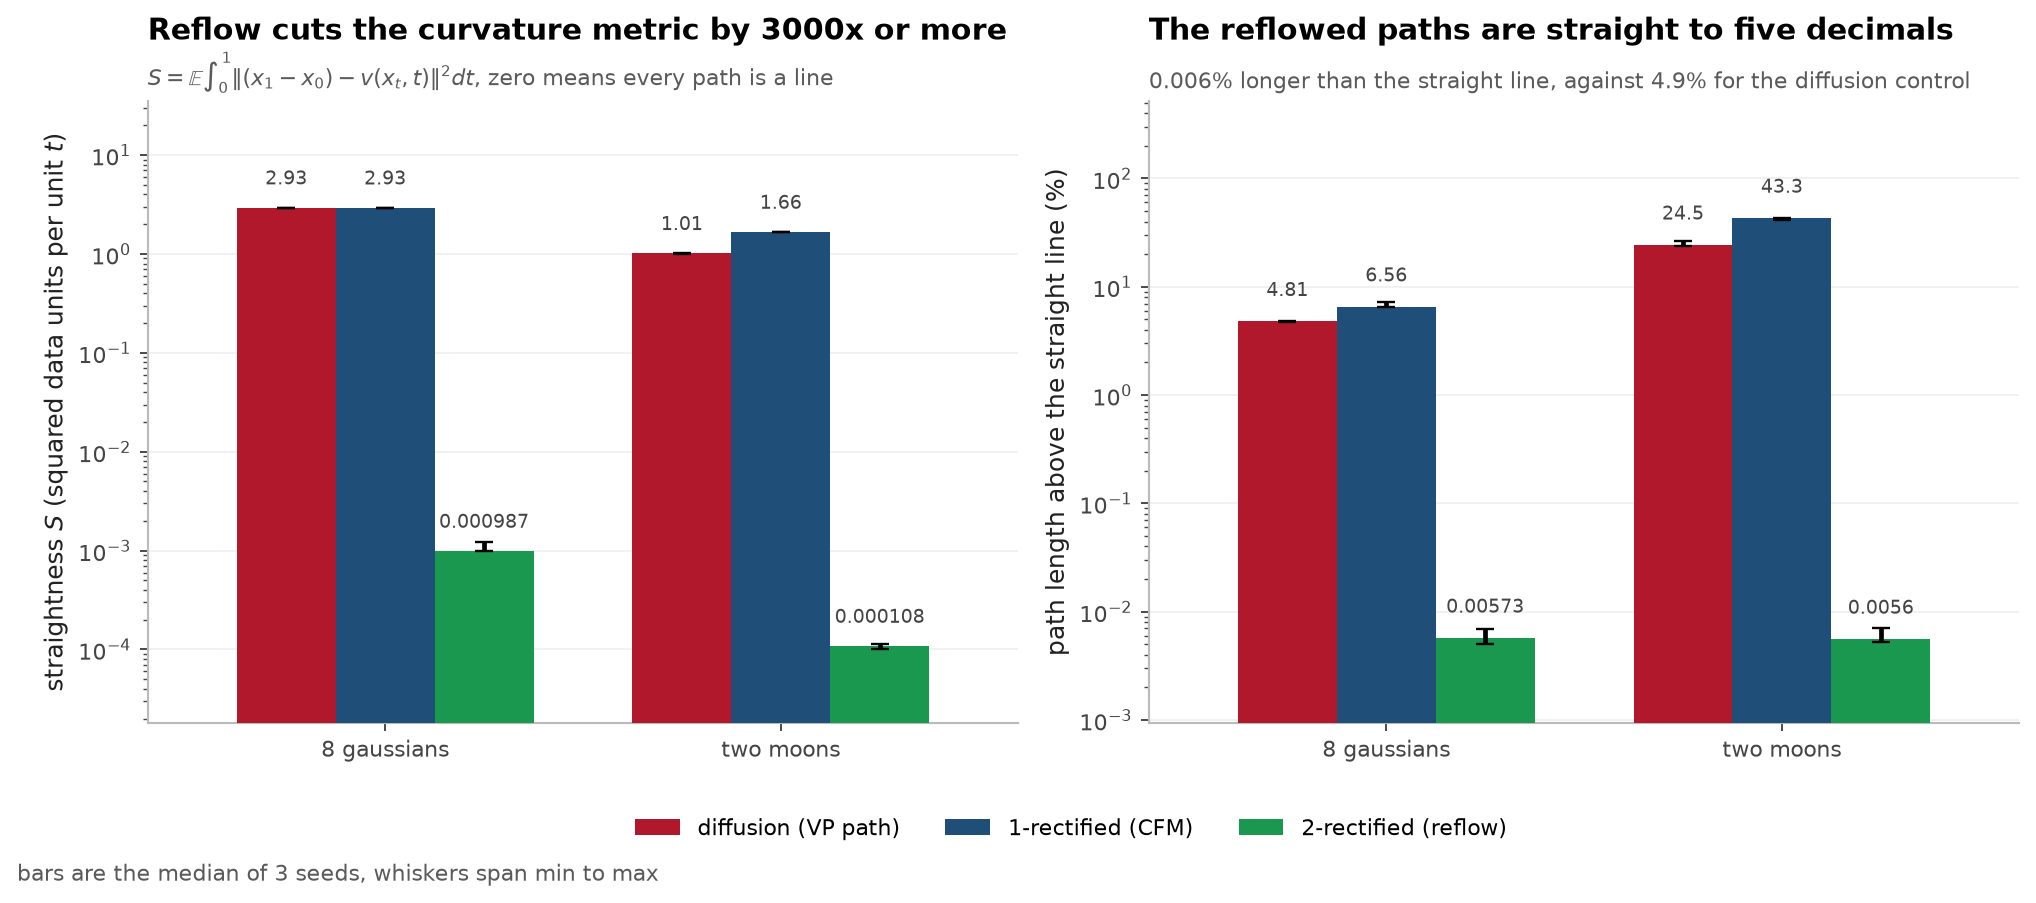
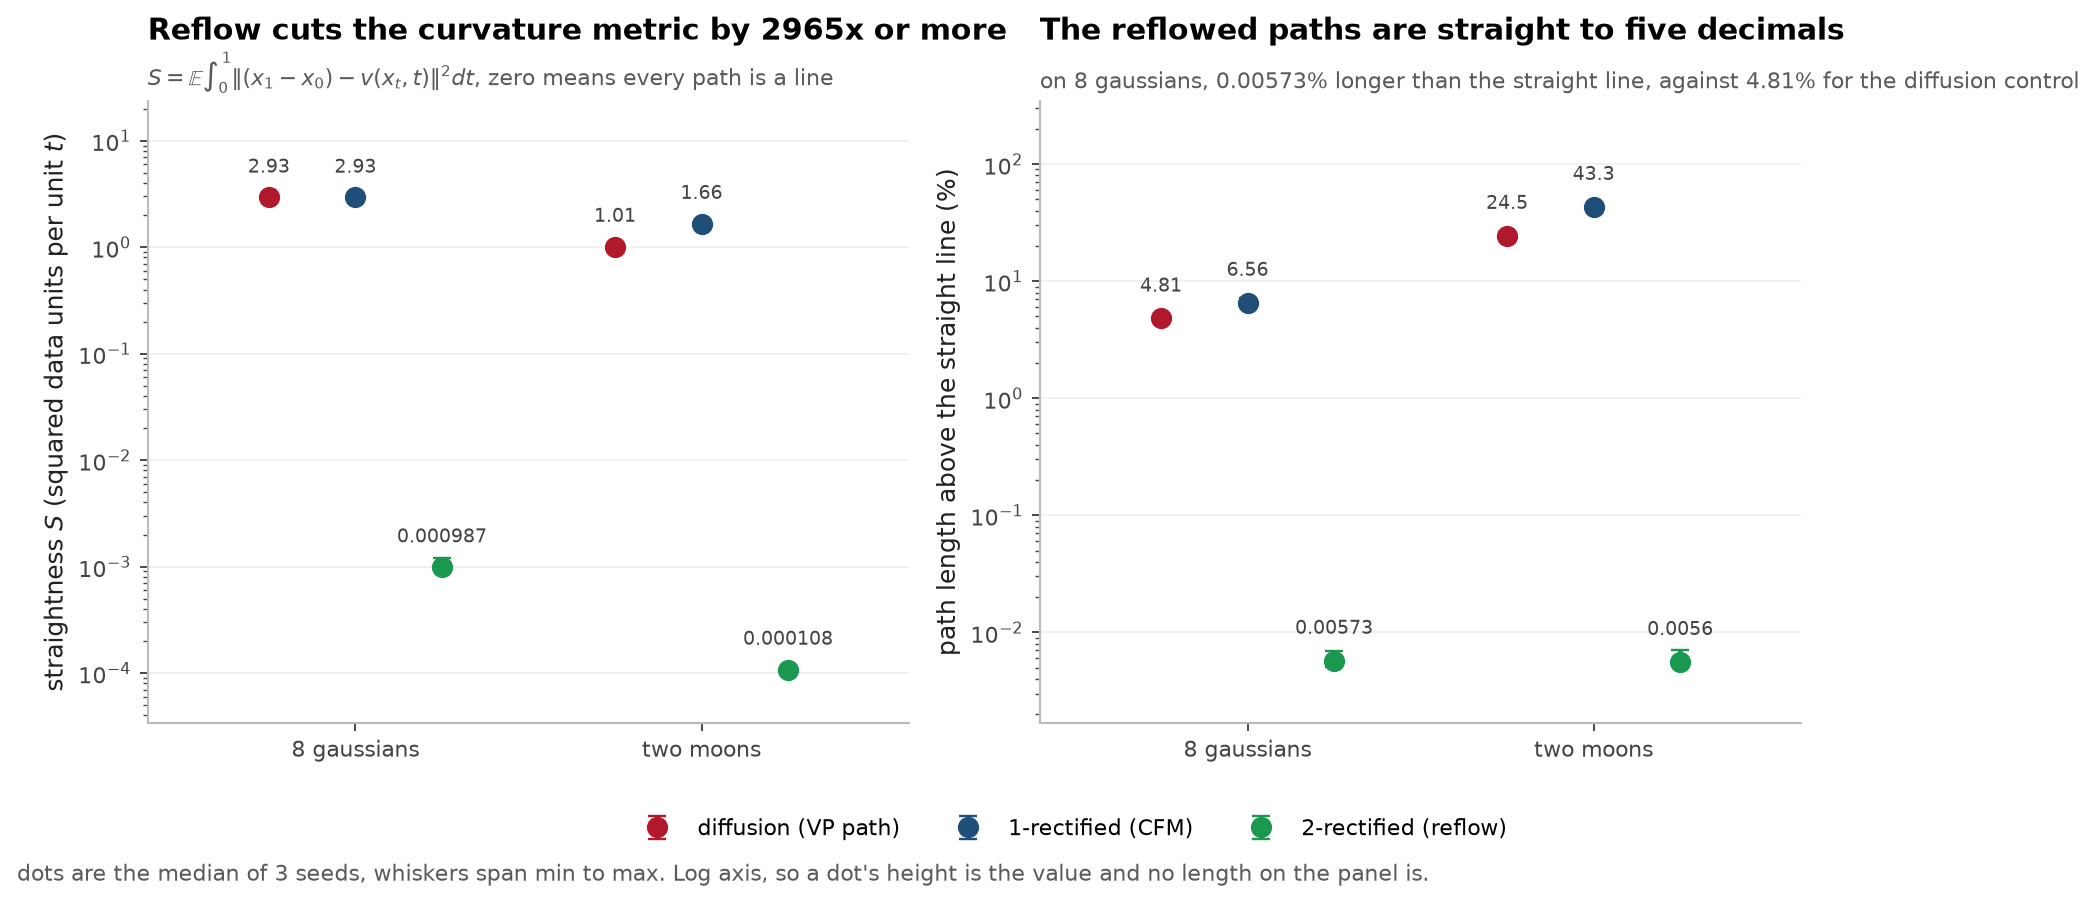
Read the straightness figure's numbers from the CSV, drop the log bars
The right panel subtitle had 0.006% and 4.9% typed into it. Those are seed 0
rounded, and the 4.9% disagreed with the 4.81 label on the bar directly under
it. The median over the 3 seeds is 4.81% and 0.00573%. Both percentages, and
the fold change in the left panel title, now come out of
results/straightness.csv at plot time. check_numbers.py only reads README and
notes prose, so a number typed into figure code was never going to be caught
there.

Both panels drew bars on a log axis. Bar length is then measured from whatever
the bottom of the axis happens to be, so the length means nothing, and in the
left panel the bars ran off the bottom with no zero anywhere. They are dots
with min to max whiskers now, on the same log axis. Position carries the value,
which is the part a log axis gets right, and the span of more than three orders
of magnitude is still visible.

Deleted results/trajectories-moons.png and results/velocity-field-moons.png. No
markdown in the repo linked either one, and the 8 gaussians versions already
make the same point, so that was 1.3 MB of dead weight. bench.figures builds
only the figures the markdown shows, so they do not come back.

Also picks up an uncommitted one line fix in notes/METHODS.md: the image link
there needs ../results, since the file lives in notes/.

diff --git a/bench/figures.py b/bench/figures.py
@@ -100,50 +100,72 @@ def fig_nfe_quality(out: Path) -> Path:
 def fig_straightness(out: Path) -> Path:
     """The metric that explains the NFE curve.
 
-    The path length ratio is drawn as excess over the straight line in percent,
-    on a log axis. Plotted as a raw ratio, 1.00006 and 1.048 are the same bar
-    and the reader learns nothing.
+    Dots on a log axis, not bars. The values span more than three orders of
+    magnitude, so a linear axis cannot show the small ones at all, and a bar on
+    a log axis is worse: its length is measured from wherever the bottom of the
+    axis happens to fall, so the length means nothing and the eye reads it
+    anyway. A dot carries its value in its position, which is the part a log
+    axis gets right. The sibling schrodinger-bridge repo dropped log bars for
+    the same reason.
+
+    Every number in the titles is read out of the CSV here. A number typed into
+    a string drifts the moment the data is regenerated, and check_numbers.py
+    only reads prose, so it would never catch it.
     """
     table = pd.read_csv(RESULTS / "straightness.csv")
     datasets = [d for d in ("8gaussians", "moons") if d in set(table["dataset"])]
 
+    def median_of(dataset: str, model: str, col: str) -> float:
+        rows = table[(table["dataset"] == dataset) & (table["model"] == model)]
+        return float(rows[col].median())
+
     fig, (left, right) = plt.subplots(1, 2, figsize=(12.4, 4.7))
-    width = 0.25
+    offset = 0.25
     panels = ((left, "straightness_S", lambda v: v, "straightness $S$ (squared data units per unit $t$)"),
               (right, "path_length_ratio_mean", lambda v: (v - 1.0) * 100.0,
                "path length above the straight line (%)"))
     for i, model in enumerate(ORDER):
-        pos = [j + (i - 1) * width for j in range(len(datasets))]
+        pos = [j + (i - 1) * offset for j in range(len(datasets))]
         for axis, col, transform, ylabel in panels:
             vals = [table[(table["dataset"] == d) & (table["model"] == model)][col]
                     for d in datasets]
             med = [transform(float(v.median())) for v in vals]
             err = [[m - transform(float(v.min())) for m, v in zip(med, vals)],
                    [transform(float(v.max())) - m for m, v in zip(med, vals)]]
-            axis.bar(pos, med, width, yerr=err, capsize=4, color=COLOURS[model],
-                     label=LABELS[model], zorder=3)
+            axis.errorbar(pos, med, yerr=err, fmt="o", markersize=8, capsize=4,
+                          linestyle="none", color=COLOURS[model], label=LABELS[model],
+                          zorder=3)
             axis.set_ylabel(ylabel)
             for x, m in zip(pos, med):
                 axis.text(x, m * 1.55, f"{m:.3g}", ha="center", va="bottom",
                           fontsize=8, color="#444444", zorder=4)
 
-    for axis in (left, right):
+    for axis, col, transform, _ in panels:
+        seen = [transform(float(v)) for v in table[col]]
         axis.set_yscale("log")
         axis.set_xticks(range(len(datasets)))
         axis.set_xticklabels([PRETTY[d] for d in datasets])
         axis.grid(False, axis="x")
         axis.grid(alpha=0.5, axis="y", which="major")
         axis.set_xlim(-0.6, len(datasets) - 0.4)
-        heights = [p.get_height() for p in axis.patches]
-        axis.set_ylim(min(heights) / 6, max(heights) * 12)
+        axis.set_ylim(min(seen) / 3, max(seen) * 8)
 
-    titled(left, "Reflow cuts the curvature metric by 3000x or more",
+    # The smallest drop across the datasets, so "or more" is true of both.
+    factor = min(median_of(d, "1-rectified", "straightness_S")
+                 / median_of(d, "2-rectified", "straightness_S") for d in datasets)
+    quoted = "8gaussians" if "8gaussians" in datasets else datasets[0]
+    excess = {m: (median_of(quoted, m, "path_length_ratio_mean") - 1.0) * 100.0
+              for m in ("2-rectified", "diffusion-vp")}
+
+    titled(left, f"Reflow cuts the curvature metric by {factor:.0f}x or more",
            "$S=\\mathbb{E}\\int_0^1\\|(x_1-x_0)-v(x_t,t)\\|^2dt$, zero means every path is a line")
     titled(right, "The reflowed paths are straight to five decimals",
-           "0.006% longer than the straight line, against 4.9% for the diffusion control")
+           f"on {PRETTY[quoted]}, {excess['2-rectified']:.3g}% longer than the straight line, "
+           f"against {excess['diffusion-vp']:.3g}% for the diffusion control")
     handles, labels = left.get_legend_handles_labels()
     fig.legend(handles, labels, loc="lower center", ncol=3, bbox_to_anchor=(0.5, -0.09))
-    fig.text(0.0, -0.115, "bars are the median of 3 seeds, whiskers span min to max",
+    fig.text(0.0, -0.115, "dots are the median of 3 seeds, whiskers span min to max. "
+             "Log axis, so a dot's height is the value and no length on the panel is.",
              fontsize=9.3, color="#5a5a5a")
     fig.tight_layout()
     fig.savefig(out)
@@ -374,17 +396,17 @@ def anim_straightening(dataset: str, out: Path, seed: int = 0, n: int = 260,
 
 def main() -> None:
     RESULTS.mkdir(exist_ok=True)
+    # Only the figures some markdown in the repo actually shows. The moons
+    # versions of the trajectory and field panels made the same point a second
+    # time, nothing linked them, and they cost 1.3 MB in the tree.
     made = [
         fig_nfe_quality(RESULTS / "nfe-quality.png"),
         fig_straightness(RESULTS / "straightness.png"),
         fig_training_curves(RESULTS / "training-curves.png"),
         anim_straightening("8gaussians", RESULTS / "animation-8gaussians.gif"),
+        fig_trajectories("8gaussians", RESULTS / "trajectories-8gaussians.png"),
+        fig_velocity_field("8gaussians", RESULTS / "velocity-field-8gaussians.png"),
     ]
-    for ds in ("8gaussians", "moons"):
-        made += [
-            fig_trajectories(ds, RESULTS / f"trajectories-{ds}.png"),
-            fig_velocity_field(ds, RESULTS / f"velocity-field-{ds}.png"),
-        ]
     for p in made:
         if p.exists():
             print(f"-> {p.relative_to(REPO)}  ({p.stat().st_size // 1024} KB)")

diff --git a/notes/METHODS.md b/notes/METHODS.md
@@ -23,7 +23,7 @@ the marginal field.
 This shows up directly in the learned velocity field. The reflowed field barely
 changes with t, which is what straight means:
 
-![learned velocity fields](results/velocity-field-8gaussians.png)
+![learned velocity fields](../results/velocity-field-8gaussians.png)
 
 
 ## The cost
